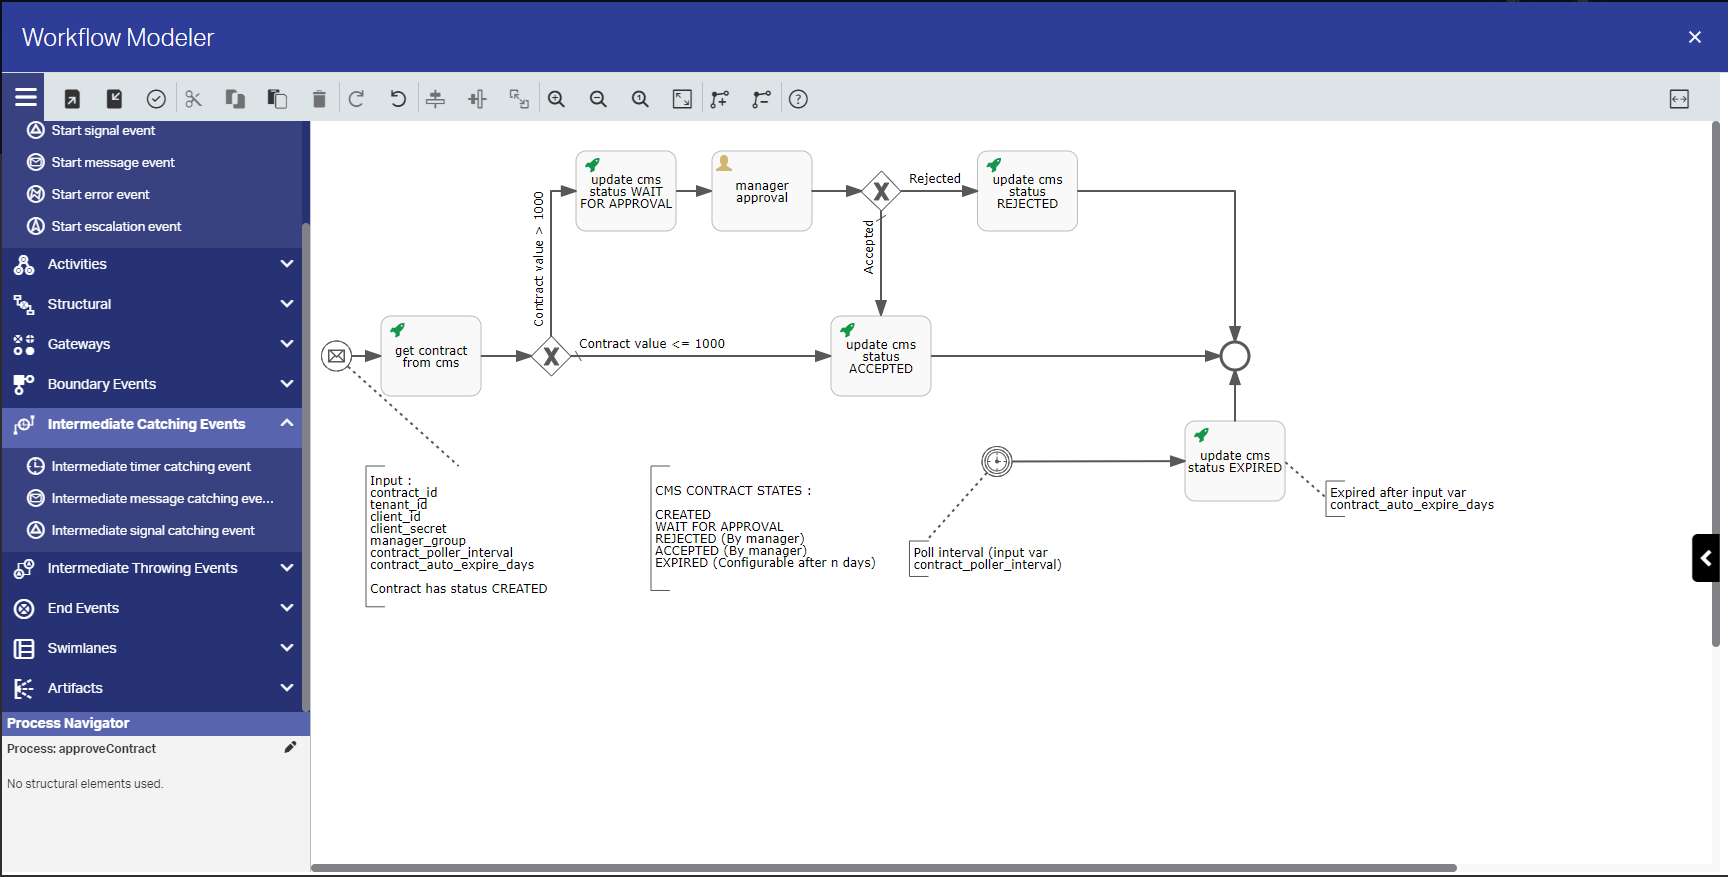
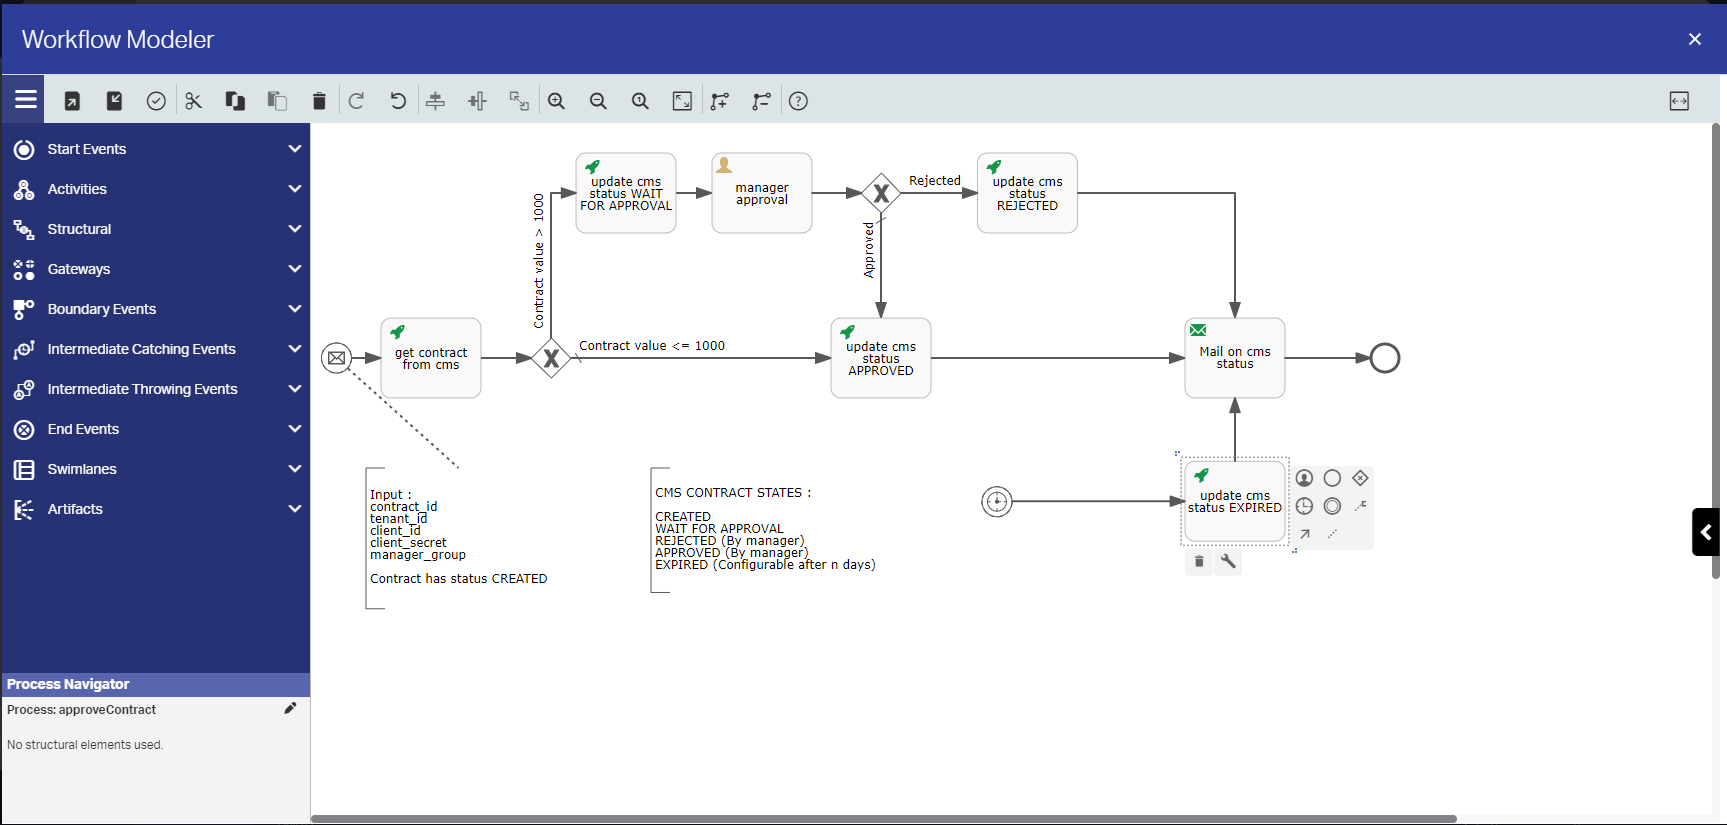
BDEVEXP-4862 send contract status via email

diff --git a/frontend/src/CreatedContractList.js b/frontend/src/CreatedContractList.js
@@ -16,7 +16,7 @@ import ContractDetails from './ContractDetails';
 import AddContract from './AddContract';
 import Pagination from './Pagination';
 import DocumentDialogView from './DocumentDialogView';
-import {Backdrop, CircularProgress, Slide, Snackbar} from "@material-ui/core";
+import { Backdrop, CircularProgress, Slide, Snackbar } from "@material-ui/core";
 import CloseIcon from '@material-ui/icons/Close';
 
 class CreatedContractList extends React.Component {
@@ -94,13 +94,13 @@ class CreatedContractList extends React.Component {
 					count: res.data.total
 				});
 			}).catch(error => {
-				this.setState({showBackdrop: false});
+				this.setState({ showBackdrop: false });
 				alert(error.message);
 			});
 		} else {
 			this.setState({ contracts: [], count: -1 });
 		}
-		this.setState({showBackdrop: false});
+		this.setState({ showBackdrop: false });
 	}
 
 	openDocumentDialogView(downloadHref) {
@@ -111,7 +111,7 @@ class CreatedContractList extends React.Component {
 	}
 
 	startContractForApproval(contractId) {
-		this.setState({showBackdrop: true});
+		this.setState({ showBackdrop: true });
 		axios.defaults.baseURL = '';
 		console.log(contractId);
 		axios({
@@ -125,24 +125,16 @@ class CreatedContractList extends React.Component {
 					{
 						"name": "contract_id",
 						"value": contractId
-					},
-					{
-						"name": "signature_poller_interval",
-						"value": "PT2M"
-					},
-					{
-						"name": "signature_auto_expire_days",
-						"value": 10
 					}
 				],
 				"returnVariables": true
 			}
 		}).then(() => {
-			this.setState({snackBarMessage: 'Approval requested successfully. A manager will review your request shortly.'});
+			this.setState({ snackBarMessage: 'Approval requested successfully. A manager will review your request shortly.' });
 			this.setState({ showSnackBar: true });
 			this.getContracts();
 		}).catch(error => {
-			this.setState({showBackdrop: false});
+			this.setState({ showBackdrop: false });
 			alert(error.message);
 		});
 	}
@@ -178,7 +170,7 @@ class CreatedContractList extends React.Component {
 								<TableCell align="left">Value</TableCell>
 								<TableCell align="left">View document</TableCell>
 								<TableCell align="left">Action</TableCell>
-								<TableCell align="left"/>
+								<TableCell align="left" />
 							</TableRow>
 						</TableHead>
 						<TableBody>
@@ -209,7 +201,7 @@ class CreatedContractList extends React.Component {
 				<ContractDetails open={this.state.openContractDetails} selectedContract={this.state.selectedContract} onClose={this.handleCloseContractDetails} />
 				<AddContract open={this.state.openAddContract} onAddContract={this.handleContractAdded} onClose={this.handleCloseAddContract} />
 				<DocumentDialogView open={this.state.openDocumentDialogView} downloadHref={this.state.downloadHref} onClose={this.handleCloseDocumentDialogView} />
-				<Backdrop style={{zIndex: 9999}} open={this.state.showBackdrop}>
+				<Backdrop style={{ zIndex: 9999 }} open={this.state.showBackdrop}>
 					<CircularProgress color="inherit" />
 				</Backdrop>
 				<Snackbar

diff --git a/frontend/src/DocumentDialogView.js b/frontend/src/DocumentDialogView.js
@@ -12,12 +12,12 @@ export default class DocumentDialogView extends React.Component {
 	constructor(props) {
 		super(props);
 		this.state = {
-				document:{url:'', base64:''},
-				downloadHref:'',
-				fileName:''
+			document: { url: '', base64: '' },
+			downloadHref: '',
+			fileName: ''
 		}
 	}
-	
+
 	componentDidUpdate(prevProps, prevState) {
 		if (prevProps.open !== this.props.open) {
 			if (this.props.open) {
@@ -28,61 +28,59 @@ export default class DocumentDialogView extends React.Component {
 			}
 		}
 	}
-	
+
 	closeDialog() {
 		this.setState({
-			document: {url:'', base64:''},
-			downloadHref:'',
-			fileName:''
+			document: { url: '', base64: '' },
+			downloadHref: '',
+			fileName: ''
 		});
 		this.props.onClose();
 	}
 
 	getContentId(url) {
-    	return url.replace(/^.*\/content\//, "");
-    }
-	
+		return url.replace(/^.*\/content\//, "");
+	}
+
 	downloadDocument(downloadHref) {
 		axios.defaults.baseURL = '';
-			axios({
-				method: 'get',
-			url:  '/api/css/downloadcontent/'+this.getContentId(downloadHref),
-				responseEncoding: 'binary',
-				responseType: 'arraybuffer'
-			}).then(file => {
+		axios({
+			method: 'get',
+			url: '/api/css/downloadcontent/' + this.getContentId(downloadHref),
+			responseEncoding: 'binary',
+			responseType: 'arraybuffer'
+		}).then(file => {
 			this.setState({
-				document:{base64: new Buffer(file.data).toString('base64')},
+				document: { base64: new Buffer(file.data).toString('base64') },
 			})
-			}).catch(error => {
+		}).catch(error => {
 			alert("Error " + error.response.status + " in downloading: " + error.response.statusText);
-			}); 
-		}
+		});
+	}
 
 	render() {
-		if ( this.state.document.base64 )
-		{
+		if (this.state.document.base64) {
 			return (
-					<Dialog 
-					open={this.props.open} 
+				<Dialog
+					open={this.props.open}
 					aria-labelledby="form-dialog-title"
-						fullWidth={true}
-						maxWidth='md'>
+					fullWidth={true}
+					maxWidth='md'>
 					<DialogTitle id="customized-dialog-title">{this.state.fileName}</DialogTitle>
 					<DialogContent>
-					<PDFViewer document={this.state.document} />
+						<PDFViewer document={this.state.document} />
 					</DialogContent>
 					<DialogActions>
-					<Button onClick={() => {this.closeDialog()}} variant="contained" color="primary">
-					Close
+						<Button onClick={() => { this.closeDialog() }} variant="contained" color="primary">
+							Close
 					</Button>
 					</DialogActions>
-					</Dialog>
+				</Dialog>
 			)
 		}
-		else
-		{
+		else {
 			return '';
 		}
-		
+
 	}
 }
